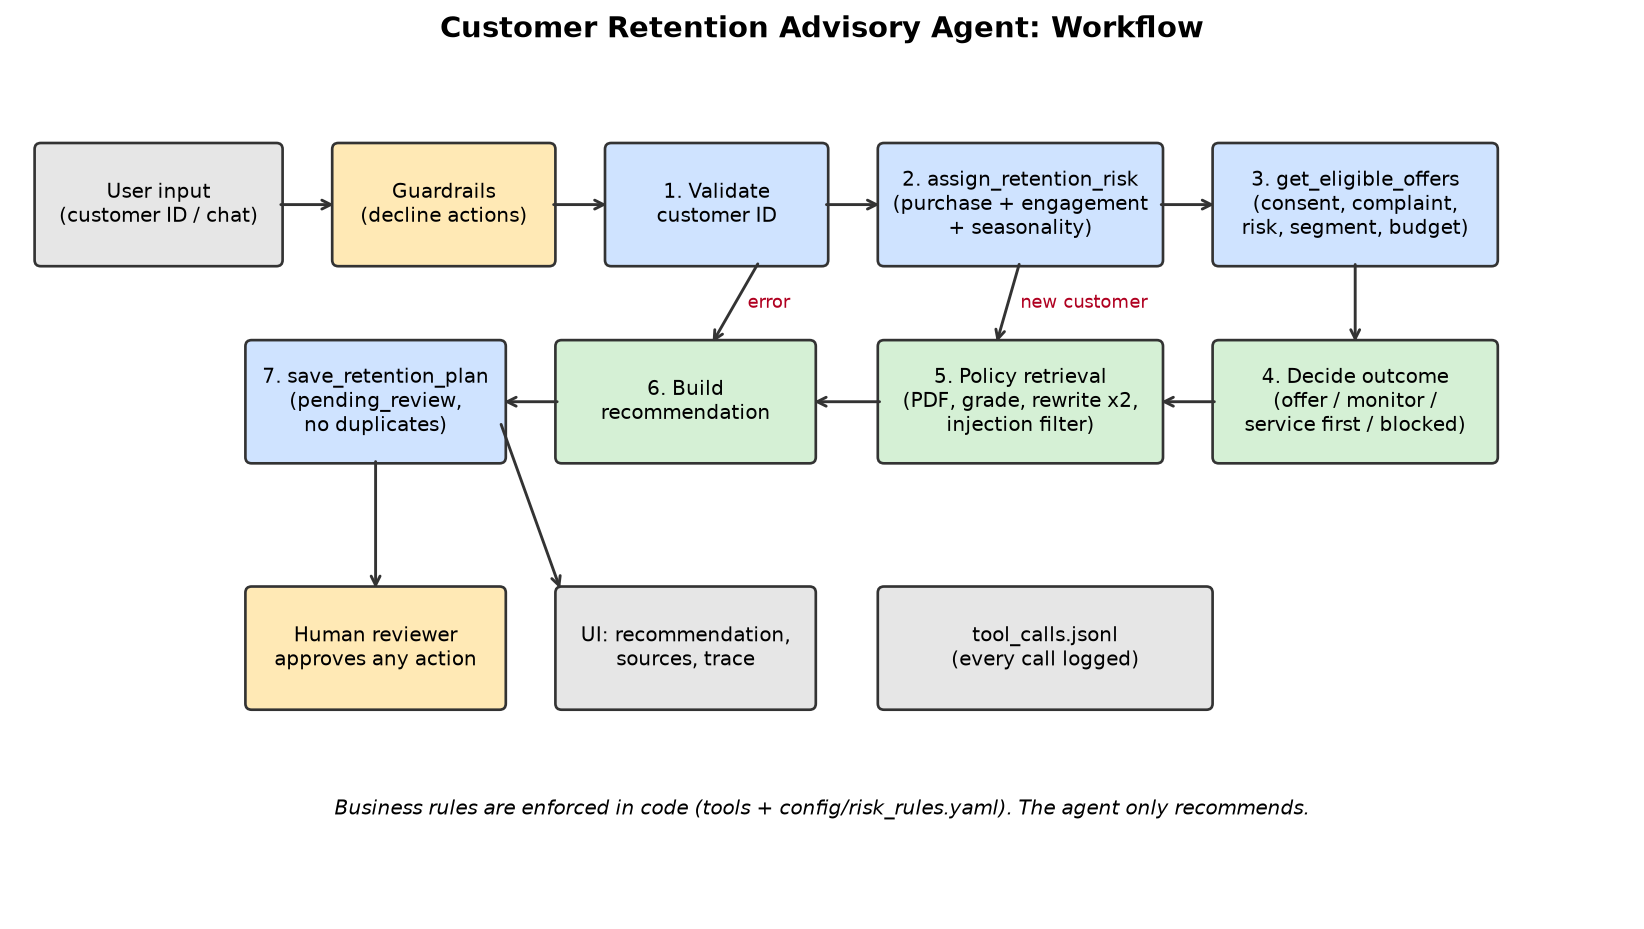
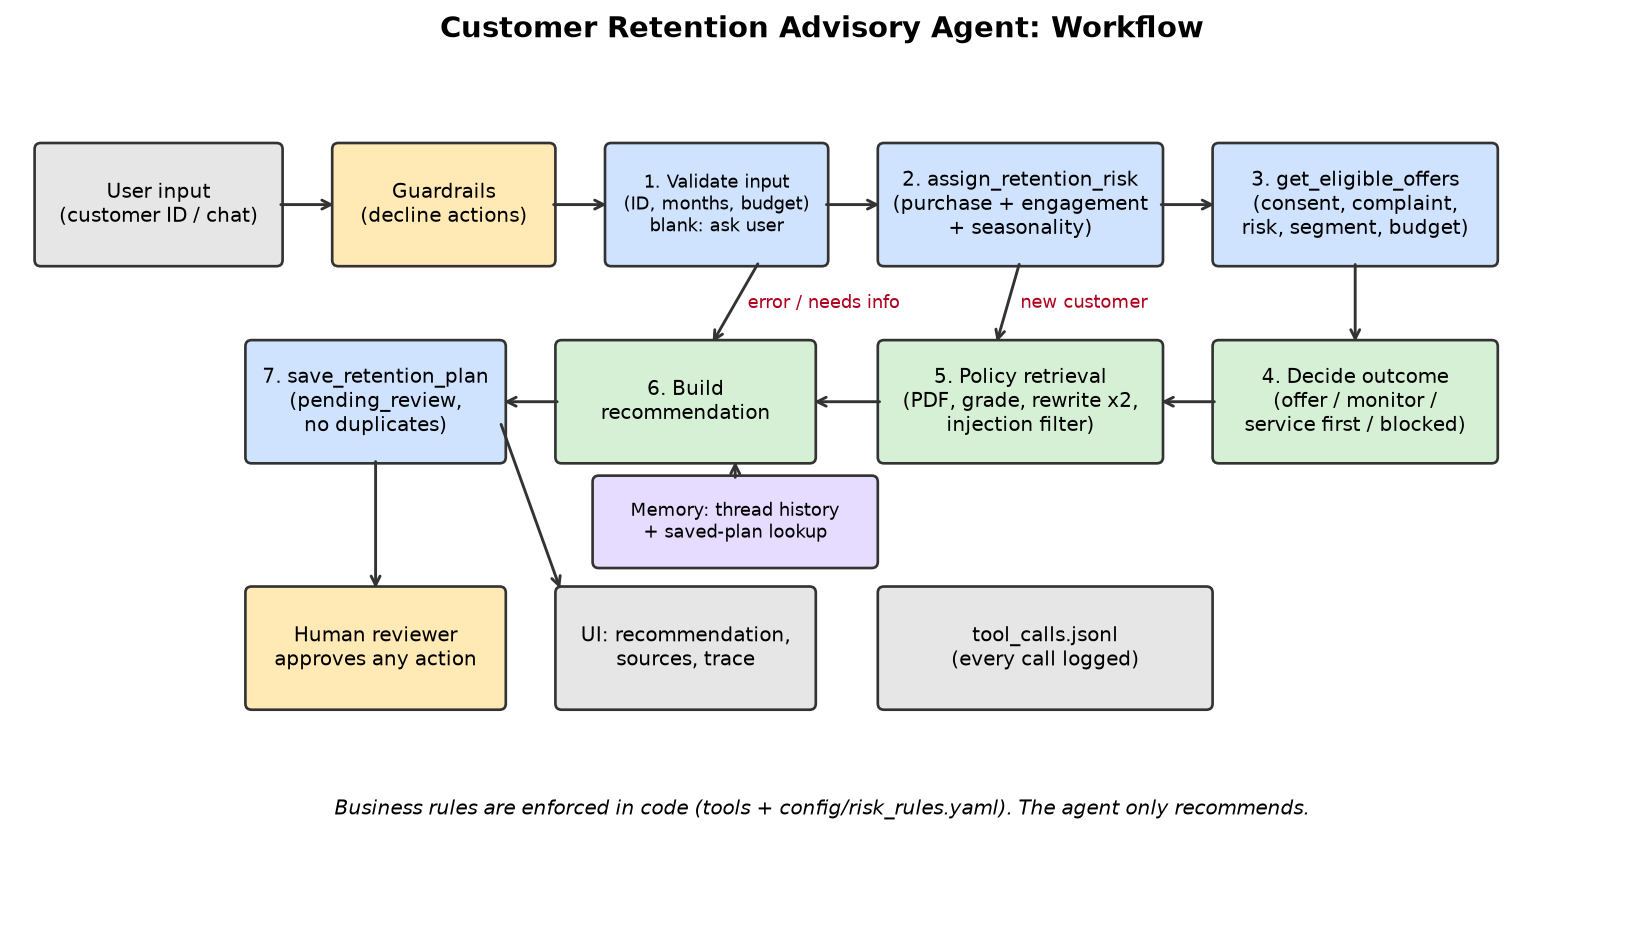
Update workflow diagram

Changed region(s): [[0.3412, 0.4995, 0.5584, 0.6243], [0.3723, 0.1873, 0.4964, 0.2497], [0.4964, 0.3122, 0.5584, 0.3434]]

diff --git a/make_diagram.py b/make_diagram.py
@@ -11,7 +11,7 @@ ax.set_ylim(0, 7)
 ax.axis("off")
 
 
-def box(x, y, w, h, text, color):
+def box(x, y, w, h, text, color, fs=9):
     ax.add_patch(
         FancyBboxPatch(
             (x, y),
@@ -29,7 +29,7 @@ def box(x, y, w, h, text, color):
         text,
         ha="center",
         va="center",
-        fontsize=9,
+        fontsize=fs,
     )
 
 
@@ -58,11 +58,12 @@ def arrow(x1, y1, x2, y2, label=""):
         )
 
 
-BLUE, GREEN, AMBER, GREY = (
+BLUE, GREEN, AMBER, GREY, PURPLE = (
     "#cfe3ff",
     "#d5f0d5",
     "#ffe9b5",
     "#e6e6e6",
+    "#e6dcff",
 )
 
 
@@ -73,7 +74,7 @@ box(2.6, 5.3, 1.7, 0.9,
     "Guardrails\n(decline actions)", AMBER)
 
 box(4.8, 5.3, 1.7, 0.9,
-    "1. Validate\ncustomer ID", BLUE)
+    "1. Validate input\n(ID, months, budget)\nblank: ask user", BLUE, fs=8)
 
 box(7.0, 5.3, 2.2, 0.9,
     "2. assign_retention_risk\n(purchase + engagement\n+ seasonality)", BLUE)
@@ -92,6 +93,9 @@ box(4.4, 3.7, 2.0, 0.9,
 
 box(1.9, 3.7, 2.0, 0.9,
     "7. save_retention_plan\n(pending_review,\nno duplicates)", BLUE)
+
+box(4.7, 2.85, 2.2, 0.65,
+    "Memory: thread history\n+ saved-plan lookup", PURPLE, fs=8)
 
 box(1.9, 1.7, 2.0, 0.9,
     "Human reviewer\napproves any action", AMBER)
@@ -116,7 +120,10 @@ arrow(4.4, 4.15, 3.9, 4.15)
 arrow(2.9, 3.7, 2.9, 2.6)
 arrow(3.9, 4.0, 4.4, 2.6)
 
-arrow(6.0, 5.3, 5.6, 4.6, "error")
+# Memory feeds the recommendation (earlier plans are looked up).
+arrow(5.8, 3.5, 5.8, 3.7)
+
+arrow(6.0, 5.3, 5.6, 4.6, "error / needs info")
 arrow(8.1, 5.3, 7.9, 4.6, "new customer")
 
 
